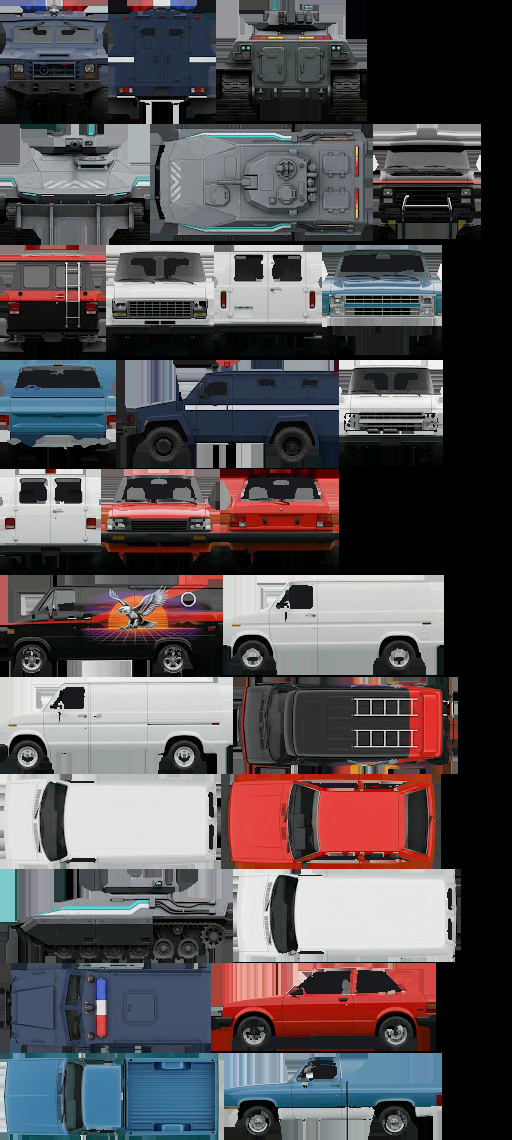
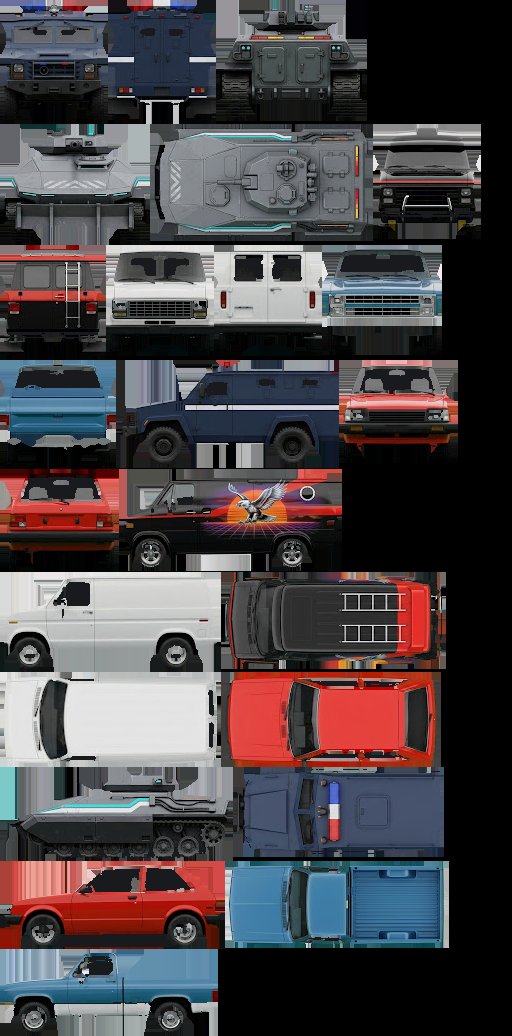
The vans were inside out, and now the car park is sparse
THE MODEL IS WOUND INWARD. A GLB states which way a face points twice —
the order of its three corners and the NORMAL on them — and this file's
two agree with each other on all 624 triangles and both point the wrong
way. Self-consistent, invisible in any viewer that draws both sides, and
fatal here: every face was a back face, every back face was culled, and
the car park was seventy-seven vans seen from the inside. A dark plate
where the roof's underside was, white boxes where the far panels were, no
grille, no wheels, no van.

It also chose the wrong picture for every panel, because the projection
picks a view by where a face points — so the left flank was painted with
the right flank's and the roof with the underside's. That was reported
as the UV mapping being broken, and the UVs were the symptom.

So which way round a model is is measured rather than trusted, the same
way its length and its nose already were: the signed volume of the mesh
about its own centre, negative for a shell wound inward, and every
triangle reversed if it is. The claim is the sign and not the size,
since a van's own interior subtracts from it — this one is -27% of its
bounding box, and reversed, +27%, against 55 to 69% for the drawn fleet
of solid boxes, which is the calibration. The smoke test had been
checking the axes, the scale, the ground line and the UV spread and
never once whether the thing was the right way out; it does now, plus
[…]

diff --git a/js/car-data.js b/js/car-data.js
@@ -1,8 +1,8 @@
-/* GENERATED by tools/prep-car.mjs from art/hatchback.png, art/van.png, art/van2.png, art/pickup.png, art/muralvan.png, art/riotvan.png, art/apc.png —
+/* GENERATED by tools/prep-car.mjs from art/hatchback.png, art/van2.png, art/pickup.png, art/muralvan.png, art/riotvan.png, art/apc.png —
    do not edit by hand.
 
-   7 vehicles measured off four-view sheets, and where each of those
-   28 views ended up in art/vehicles-atlas.png. js/car.js builds boxes
+   6 vehicles measured off four-view sheets, and where each of those
+   24 views ended up in art/vehicles-atlas.png. js/car.js builds boxes
    out of a shape and paints them by projecting that vehicle's views back
    along the axes they were drawn down.
 
@@ -13,7 +13,7 @@
 
 /** The atlas. One picture for the whole fleet, so a car park full of
     vehicles is one texture and one material. */
-export const CAR_ATLAS = { file: 'art/vehicles-atlas.png', w: 512, h: 1140 };
+export const CAR_ATLAS = { file: 'art/vehicles-atlas.png', w: 512, h: 1036 };
 
 /** The fleet.
 
@@ -45,10 +45,10 @@ export const VEHICLES = {
     /* nose to tail, in game units: 3.7 m at 32 units to the metre */
     length: 118,
     views: {
-      front: { x: 102, y: 470, w: 117, h: 101, z0: 0.0299, z1: 0.4155, half: 0.2234 },
-      rear: { x: 221, y: 470, w: 117, h: 101, z0: 0.0337, z1: 0.4193, half: 0.2234 },
-      side: { x: 212, y: 964, w: 223, h: 86, z0: 0, z1: 0.3857 },
-      top: { x: 222, y: 775, w: 218, h: 93, half: 0.2133 },
+      front: { x: 340, y: 361, w: 117, h: 101, z0: 0.0299, z1: 0.4155, half: 0.2234 },
+      rear: { x: 1, y: 470, w: 117, h: 101, z0: 0.0337, z1: 0.4193, half: 0.2234 },
+      side: { x: 1, y: 862, w: 223, h: 86, z0: 0, z1: 0.3857 },
+      top: { x: 222, y: 673, w: 218, h: 93, half: 0.2133 },
     },
     shape: {
       width: 0.44,
@@ -92,59 +92,6 @@ export const VEHICLES = {
       agree: 0.0458,
     },
   },
-  van: {
-    id: 'van', name: 'Panel van', use: 'civil',
-    /* nose to tail, in game units: 5.45 m at 32 units to the metre */
-    length: 174,
-    views: {
-      front: { x: 340, y: 361, w: 102, h: 104, z0: 0.0079, z1: 0.4192, half: 0.2017 },
-      rear: { x: 1, y: 470, w: 99, h: 104, z0: 0.0079, z1: 0.4192, half: 0.1957 },
-      side: { x: 1, y: 678, w: 231, h: 95, z0: 0, z1: 0.4113 },
-      top: { x: 234, y: 870, w: 226, h: 91, half: 0.2013 },
-    },
-    shape: {
-      width: 0.3992,
-      height: 0.4113,
-      sill: 0.0866,
-      tyre: 0.0587,
-      roof: 0.4113,
-      columns: [
-        [0.5, 0.1212, 0.1053],
-        [0.487, 0.2338, 0.1796],
-        [0.4437, 0.2597, 0.1886],
-        [0.4091, 0.2641, 0.1974],
-        [0.3485, 0.2944, 0.1974],
-        [0.3268, 0.2944, 0.1974],
-        [0.2749, 0.355, 0.193],
-        [0.2619, 0.3896, 0.193],
-        [0.2403, 0.4026, 0.193],
-        [0.2229, 0.4026, 0.193],
-        [0.2143, 0.4026, 0.182],
-        [0.1407, 0.4069, 0.182],
-        [0.132, 0.4113, 0.1952],
-        [0.0455, 0.4113, 0.1952],
-        [-0.0411, 0.4113, 0.1974],
-        [-0.1277, 0.4113, 0.193],
-        [-0.2143, 0.4113, 0.1952],
-        [-0.3009, 0.4113, 0.1996],
-        [-0.3961, 0.4113, 0.1908],
-        [-0.4567, 0.3983, 0.1886],
-        [-0.487, 0.2684, 0.1798],
-        [-0.5, 0.1212, 0.0855],
-      ],
-      levels: [
-        [0.0866, 0.1955],
-        [0.1786, 0.1955],
-        [0.2706, 0.1996],
-        [0.2792, 0.1875],
-        [0.3387, 0.1754],
-        [0.3983, 0.1624],
-        [0.4113, 0.1401],
-      ],
-      wheels: [{ x: -0.2879, r: 0.0801 }, { x: 0.381, r: 0.0812 }],
-      agree: 0.0297,
-    },
-  },
   van2: {
     id: 'van2', name: 'Work van', use: 'civil',
     /* nose to tail, in game units: 5.45 m at 32 units to the metre */
@@ -152,8 +99,8 @@ export const VEHICLES = {
     views: {
       front: { x: 107, y: 246, w: 106, h: 109, z0: 0.0123, z1: 0.4598, half: 0.2176 },
       rear: { x: 215, y: 246, w: 106, h: 109, z0: 0.0123, z1: 0.4598, half: 0.2176 },
-      side: { x: 224, y: 576, w: 219, h: 98, z0: 0, z1: 0.4475 },
-      top: { x: 1, y: 775, w: 219, h: 93, half: 0.2123 },
+      side: { x: 1, y: 573, w: 219, h: 98, z0: 0, z1: 0.4475 },
+      top: { x: 1, y: 673, w: 219, h: 93, half: 0.2123 },
     },
     shape: {
       width: 0.4317,
@@ -206,8 +153,8 @@ export const VEHICLES = {
     views: {
       front: { x: 323, y: 246, w: 118, h: 108, z0: 0.0027, z1: 0.3962, half: 0.215 },
       rear: { x: 1, y: 361, w: 114, h: 107, z0: 0.0027, z1: 0.3962, half: 0.2096 },
-      side: { x: 225, y: 1054, w: 216, h: 85, z0: 0, z1: 0.3935 },
-      top: { x: 1, y: 1054, w: 222, h: 85, half: 0.1914 },
+      side: { x: 1, y: 950, w: 216, h: 85, z0: 0, z1: 0.3935 },
+      top: { x: 226, y: 862, w: 222, h: 85, half: 0.1914 },
     },
     shape: {
       width: 0.4107,
@@ -255,8 +202,8 @@ export const VEHICLES = {
     views: {
       front: { x: 374, y: 125, w: 106, h: 113, z0: -0.0026, z1: 0.4499, half: 0.2122 },
       rear: { x: 1, y: 246, w: 104, h: 113, z0: -0.0026, z1: 0.4499, half: 0.2082 },
-      side: { x: 1, y: 576, w: 221, h: 100, z0: 0, z1: 0.4525 },
-      top: { x: 234, y: 678, w: 223, h: 95, half: 0.213 },
+      side: { x: 120, y: 470, w: 221, h: 100, z0: 0, z1: 0.4525 },
+      top: { x: 222, y: 573, w: 223, h: 95, half: 0.213 },
     },
     shape: {
       width: 0.4223,
@@ -318,7 +265,7 @@ export const VEHICLES = {
       front: { x: 1, y: 1, w: 106, h: 122, z0: 0.02, z1: 0.4997, half: 0.2084 },
       rear: { x: 109, y: 1, w: 106, h: 122, z0: 0.02, z1: 0.4997, half: 0.2084 },
       side: { x: 117, y: 361, w: 221, h: 106, z0: 0, z1: 0.4796 },
-      top: { x: 1, y: 964, w: 209, h: 88, half: 0.2105 },
+      top: { x: 234, y: 768, w: 209, h: 88, half: 0.2105 },
     },
     shape: {
       width: 0.4182,
@@ -374,7 +321,7 @@ export const VEHICLES = {
     views: {
       front: { x: 1, y: 125, w: 148, h: 119, z0: 0.0581, z1: 0.4564, half: 0.2477 },
       rear: { x: 217, y: 1, w: 149, h: 119, z0: 0.0581, z1: 0.4564, half: 0.2493 },
-      side: { x: 1, y: 870, w: 231, h: 92, z0: 0, z1: 0.3983 },
+      side: { x: 1, y: 768, w: 231, h: 92, z0: 0, z1: 0.3983 },
       top: { x: 151, y: 125, w: 221, h: 115, half: 0.2602 },
     },
     shape: {
@@ -431,5 +378,5 @@ export const VEHICLES = {
 };
 
 /** In the order they were measured, and the ones a shopper might own. */
-export const VEHICLE_IDS = ["hatchback","van","van2","pickup","muralvan","riotvan","apc"];
-export const CIVILIAN = ["hatchback","van","van2","pickup","muralvan"];
+export const VEHICLE_IDS = ["hatchback","van2","pickup","muralvan","riotvan","apc"];
+export const CIVILIAN = ["hatchback","van2","pickup","muralvan"];

diff --git a/js/maps/sellwrong.js b/js/maps/sellwrong.js
@@ -932,16 +932,21 @@ export function buildSellWrong() {
      heading, and which of them it is. Read `level.carSlots`, put a model
      at each, and the lot is parked.
 
-     A car park that is FULL is wrong for this: the place is half empty
-     because half the town has already left, so bays are taken at about
-     one in three, thinning towards the road. */
+     A car park that is FULL is wrong for this, and at the user's request
+     it is now SPARSE rather than merely half empty: about one bay in
+     six near the doors, thinning to almost nothing by the road. Half
+     the town left, and the ones who stayed parked close. It reads better
+     than a full lot — a van on its own in a bay says something, and
+     seventy-seven of them said "the loader worked" — and it is the
+     cheapest frame this game has going: the lot was 48,000 triangles of
+     van, and it is about 13,000 now. */
   {
     let seed = 20250907;
     const rnd = () => ((seed = (seed * 1103515245 + 12345) & 0x7fffffff) / 0x7fffffff);
     bayRows.forEach((row, ri) => {
       const cy = (row.y0 + row.y1) / 2;
       const n = Math.floor((LOT_X1 - LOT_X0) / BAY_W);
-      const take = 0.42 - ri * 0.045;                 // emptier towards the road
+      const take = 0.17 - ri * 0.026;                 // emptier towards the road
       for (let i = 0; i < n; i++) {
         if (rnd() > take) continue;
         const cx = LOT_X0 + (i + 0.5) * BAY_W;
@@ -954,10 +959,22 @@ export function buildSellWrong() {
         });
       }
     });
-    /* and three abandoned across the lanes, because everyone left at once */
-    carSlots.push({ x: 1500, y: ROAD_Y0 - 60,  angle: 0.35,  variant: 2 });
-    carSlots.push({ x: 3100, y: ROAD_Y0 - 80,  angle: -0.25, variant: 4 });
-    carSlots.push({ x: 620,  y: ROAD_Y0 - 700, angle: 1.4,   variant: 1 });
+    /* --- and three abandoned across the lanes, because everyone left at
+       once. IN a lane, which has to be FOUND rather than guessed: the
+       rows come back-to-back in pairs, and the gap between one pair and
+       the next is the driving lane. The three of these used to be put at
+       ROAD_Y0 minus a guess, which is a band with no lane in it — one of
+       them ended up thirty-two units from a parked van, two vehicles in
+       one bay. Invisible while the lot was full; the first thing you see
+       once it is sparse. */
+    const lanes = [];
+    for (let i = 0; i + 1 < bayRows.length; i++) {
+      const gap = bayRows[i].y0 - bayRows[i + 1].y1;
+      if (gap > 100) lanes.push(bayRows[i].y0 - gap / 2);
+    }
+    [[1500, 0, 0.35], [3100, 1, -0.25], [620, 2, 1.4]].forEach(([x, li, angle]) => {
+      if (lanes[li] !== undefined) carSlots.push({ x, y: lanes[li], angle, variant: 0 });
+    });
   }
 
   /* --- the furniture of a shop front --------------------------------- */

diff --git a/js/car.js b/js/car.js
@@ -564,12 +564,61 @@ export function modelVehicle(json, bin, opts = {}) {
       tris.push({ a, b, c, n });
     }
   }
+
+  /* ------------------------------------------------------------------
+     WHICH WAY ROUND THE MODEL IS, and this is not a detail.
+
+     A GLB says which way a face points twice: by the order of its three
+     corners and by the NORMAL attribute on them. This file's two agree
+     with each other on all 624 triangles — and both point INWARD. That
+     is a thing a modeller can do without ever seeing it, because a
+     flipped normal plus a flipped winding is self-consistent and most
+     viewers draw both sides anyway.
+
+     This renderer does not draw both sides. Every face of the van was a
+     back face, every back face was culled, and what you saw across the
+     car park was the INSIDE of a van — a dark plate where the roof's
+     underside was, white boxes where the far panels were, and no van.
+     Seventy-seven times. It also wrecked the paint, because the view a
+     face reads is chosen by where it points, so the left flank was
+     painted with the right flank's picture and the roof with the
+     underside's.
+
+     So the orientation is MEASURED rather than trusted: the signed
+     volume of the whole mesh about its own centre, which is positive for
+     a solid wound outward and negative for one wound in. A van's own
+     interior — seats, the inside of the doors, the cargo bay — subtracts
+     from it, so the threshold is the sign and not the size: this model
+     comes out at -27% of its bounding box, and flipped, +27%.
+     ------------------------------------------------------------------ */
+  const c3 = [0, 0, 0];
+  const bb = [Infinity, Infinity, Infinity, -Infinity, -Infinity, -Infinity];
+  for (const t of tris) for (const p of [t.a, t.b, t.c]) for (let k = 0; k < 3; k++) {
+    if (p[k] < bb[k]) bb[k] = p[k];
+    if (p[k] > bb[3 + k]) bb[3 + k] = p[k];
+  }
+  for (let k = 0; k < 3; k++) c3[k] = (bb[k] + bb[3 + k]) / 2;
+  let vol = 0;
+  for (const t of tris) {
+    const A = [t.a[0] - c3[0], t.a[1] - c3[1], t.a[2] - c3[2]];
+    const B = [t.b[0] - c3[0], t.b[1] - c3[1], t.b[2] - c3[2]];
+    const C = [t.c[0] - c3[0], t.c[1] - c3[1], t.c[2] - c3[2]];
+    vol += (A[0] * (B[1] * C[2] - B[2] * C[1]) +
+            A[1] * (B[2] * C[0] - B[0] * C[2]) +
+            A[2] * (B[0] * C[1] - B[1] * C[0])) / 6;
+  }
+  if (vol < 0)
+    for (const t of tris) {
+      const b = t.b; t.b = t.c; t.c = b;
+      t.n = [-t.n[0], -t.n[1], -t.n[2]];
+    }
+
   return {
     id: opts.id || 'van', name: opts.name || 'Van', use: 'civil',
     length: ex.length,
     shape: ex.shape,
     views: ex.views,
-    model: { tris },
+    model: { tris, volume: Math.abs(vol), inverted: vol < 0 },
   };
 }
 
